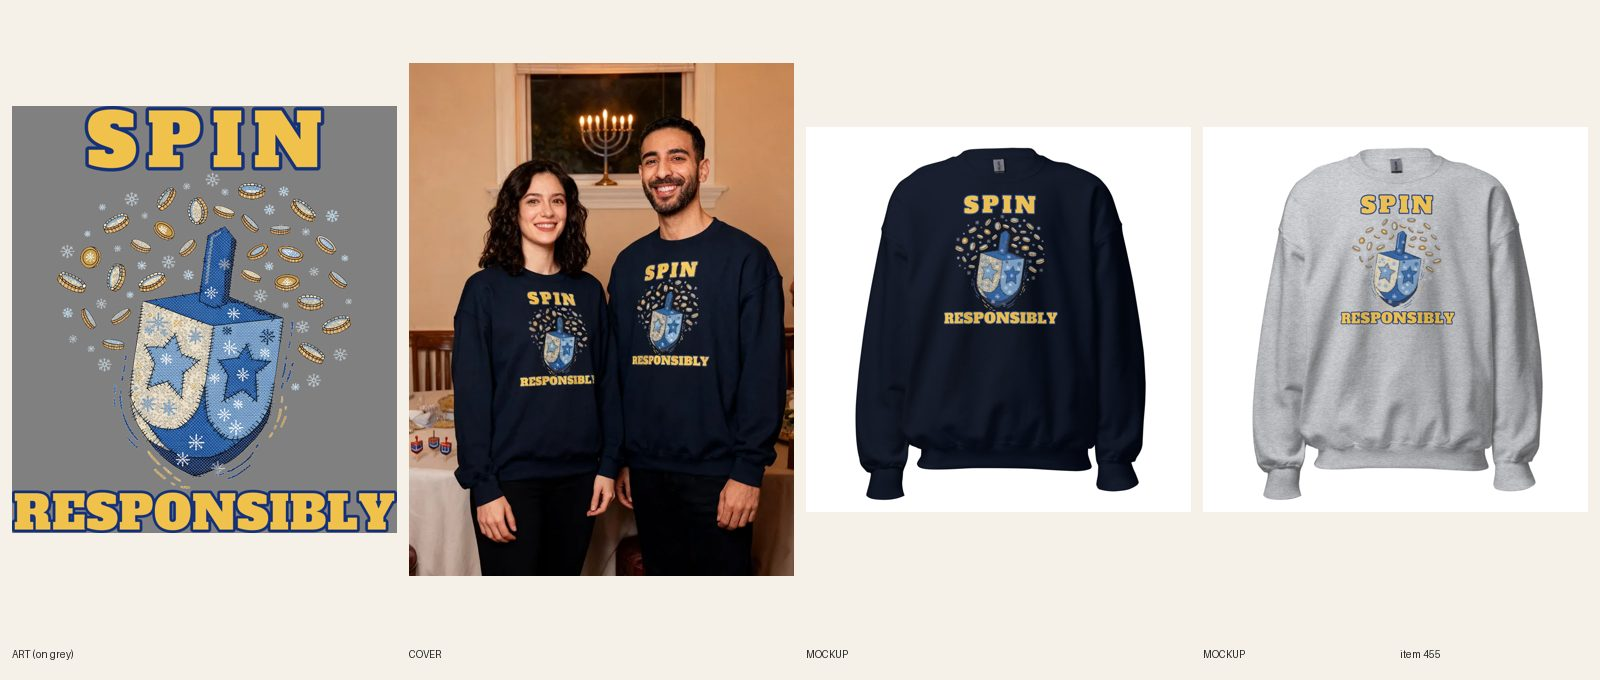
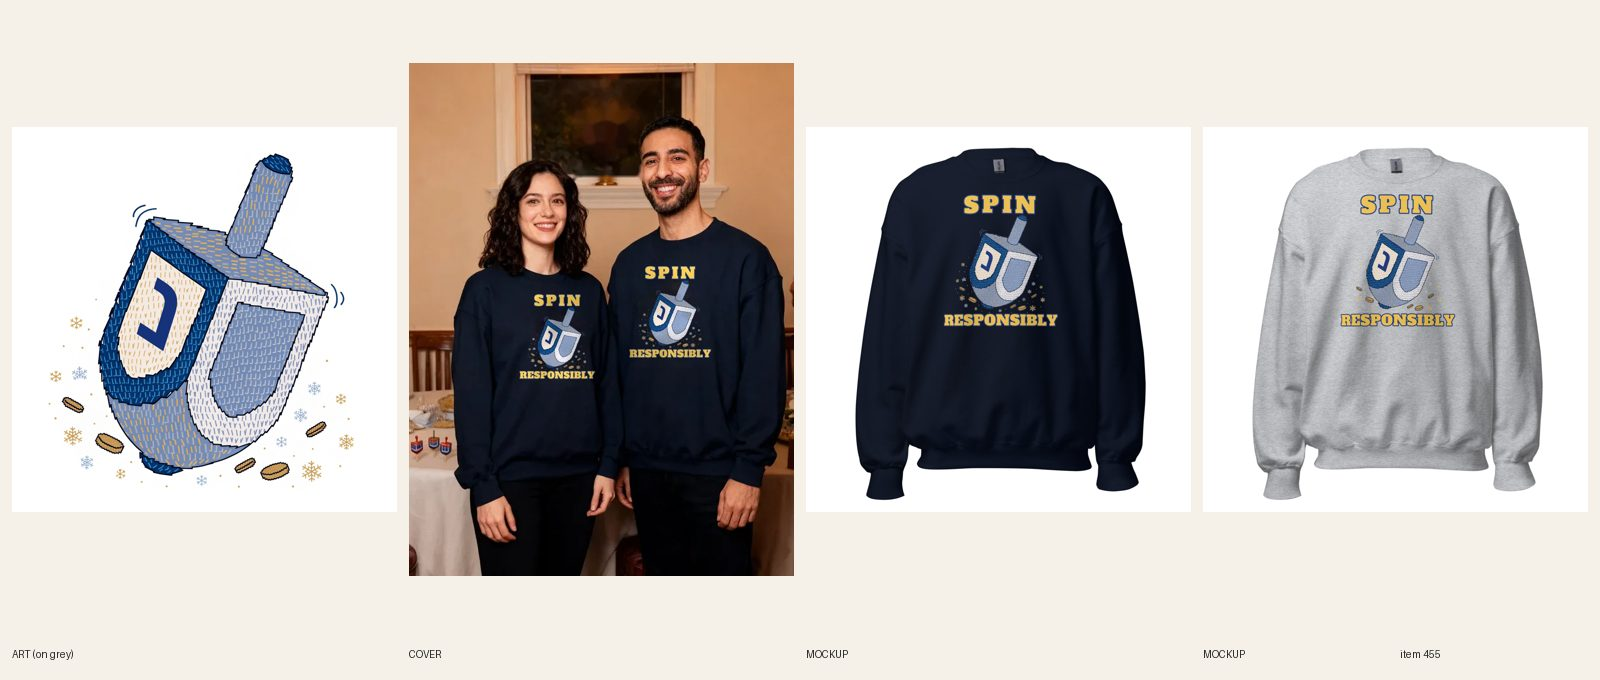
[B] review 455 Hanukkah Spin Responsibly crewneck REDO
Claude-Session: https://claude.ai/code/session_01NkbwWHVXeYtDWLV5VFVRgV

diff --git a/docs/pipeline/455-hanukkah-crew-spin-responsibly.md b/docs/pipeline/455-hanukkah-crew-spin-responsibly.md
@@ -1,4 +1,4 @@
-status: BUILDING [B] 2026-10-18 03:25Z
+status: REVIEW
 lane: B
 type: new
 id: 455
@@ -31,3 +31,4 @@ kd: 17
 - 2026-10-17 21:19 UTC director: LIVE. sheet seen: stitched-look dreidel and gelt, SPIN / RESPONSIBLY reads on Navy and Sport Grey; unisex couple at a Hanukkah table. ACTIVE + Online Store, Headless, Google & YouTube; audit --handle PASS.
 - 2026-10-18 02:55 UTC Claude: REDO (R5.3.9). The dreidel shows Stars of David where its Hebrew letters belong; real dreidels carry נ ג ה ש. Keep SPIN RESPONSIBLY, coins and layout. Fix: regenerate the dreidel with blank faces (1 Recraft call), then set ONE real letter (נ, nun) on the front face in a real Hebrew font in post; check it at 200%. If it is not exactly right, leave the faces plain. Same product, stays ACTIVE.
 - 2026-10-18 03:16 UTC director: also R5.3.9 on the cover: the menorah in the window has 7 candles (a Temple menorah, not a Hanukkah one); Sam flagged this exact error on 2026-10-18. Fix with the art redo: paint the menorah out of the window, or composite a 9-candle hanukkiah (8 in a row plus a raised shamash) and count it at 200%. No new cover generation needed.
+- [B] 2026-10-18 03:31 REDO rebuilt: plain-face dreidel with the Hebrew nun (נ) on the left face, lettering via compose-print (SPIN / RESPONSIBLY, FW 1650), synced 12/12, mockups swapped in place, cover recomposited with exact print on both chests and 7-candle menorah painted out. Product stays ACTIVE.

diff --git a/docs/intake-log.md b/docs/intake-log.md
@@ -1,3 +1,4 @@
+2026-10-18 03:31 UTC — [B] REVIEW #455 Hanukkah Spin Responsibly crewneck REDO (nun on dreidel face, resynced 12/12, cover recomposited, menorah removed; fal $0).
 2026-10-18 03:24 UTC — [B] REVIEW #546 Men's Christian – Short Grace. Hot Food. Tee (DRAFT, synced 35/35, 5 light colors; fal $0.10).
 2026-10-18 03:24 UTC — [B] REVIEW #545 Women's Gym – Mid-Set. Not Interested. Tee (DRAFT, synced 36/36, 6 light colors; fal $0.10).
 2026-10-18 03:24 UTC — [B] REVIEW #544 Men's Gym – Rack Your Weights. Respectfully. Tee (DRAFT, synced 35/35, 5 light colors; fal $0.10).
